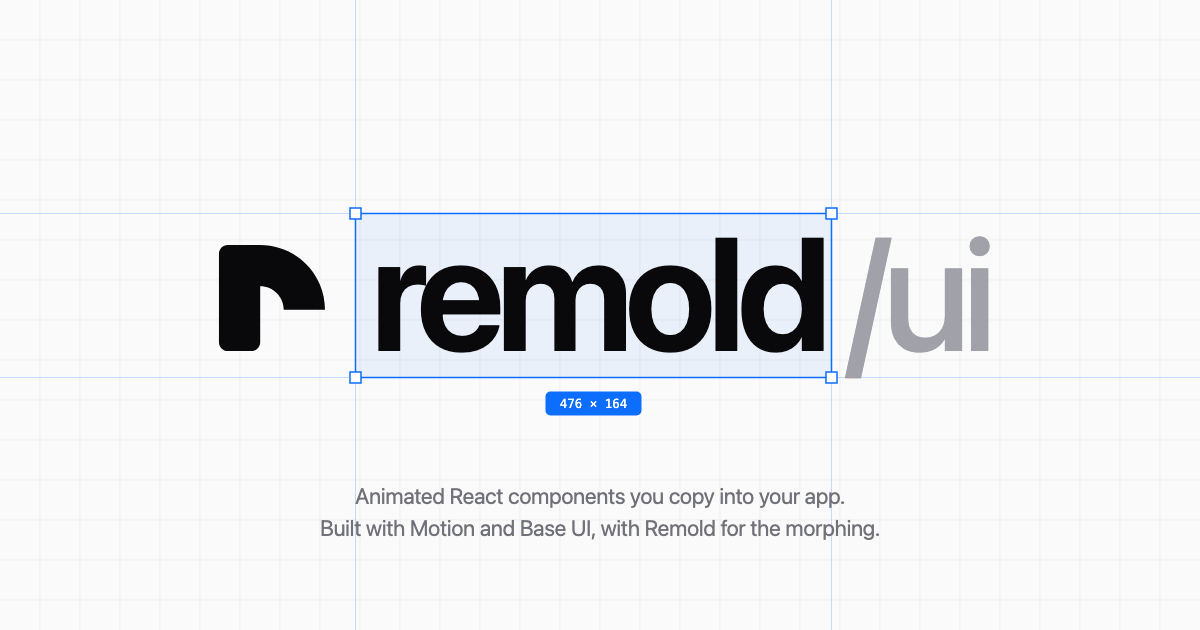
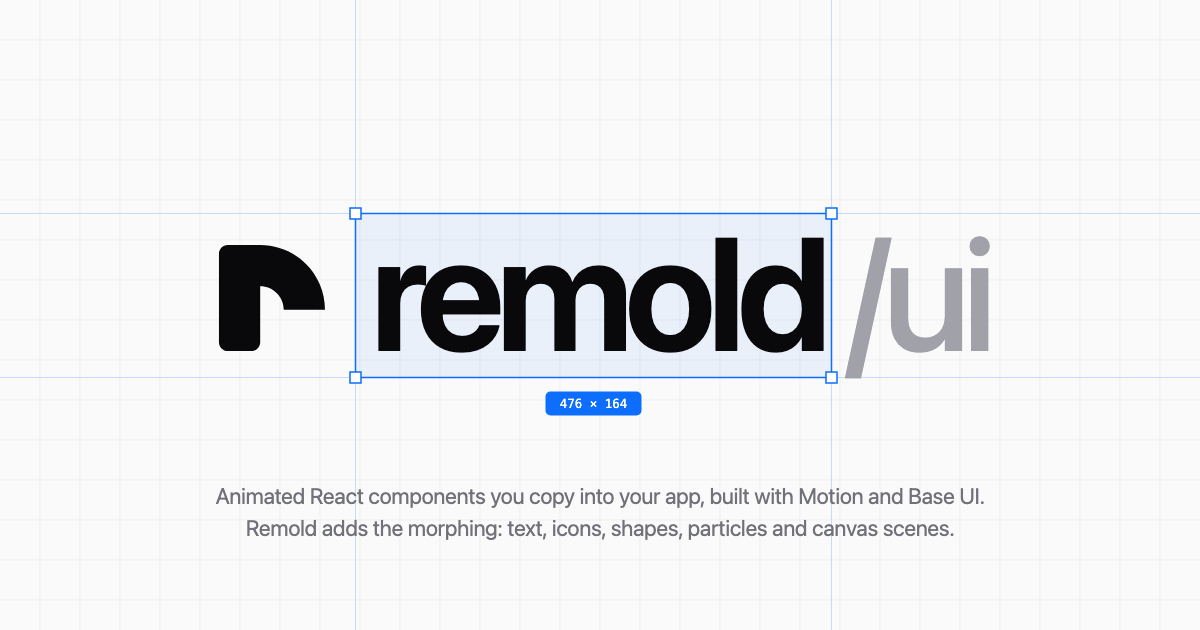
docs: name particles and canvas scenes in the lead line
The banner, link preview, README, home page and docs introduction now list what
Remold morphs in full: text, icons, shapes, particles and canvas scenes.

Changed region(s): [[0.185, 0.754, 0.8325, 0.8746]]

diff --git a/apps/docs/lib/seo.ts b/apps/docs/lib/seo.ts
@@ -1,11 +1,11 @@
 export const siteUrl = (process.env.NEXT_PUBLIC_SITE_URL ?? "https://remoldui.xyz").replace(/\/$/, "");
 
 export const siteDescription =
-  "Open-source animated React components built with Motion and Base UI, with Remold for the morphing: text, SVG icons, shapes and particles.";
+  "Open-source animated React components built with Motion and Base UI, with Remold for the morphing: text, SVG icons, shapes, particles and canvas scenes.";
 
 export const socialImage = "/og-remold-ui.png";
 
-export const socialImageAlt = "remold/ui: animated React components you copy into your app, built with Motion and Base UI, with Remold for the morphing.";
+export const socialImageAlt = "remold/ui: animated React components you copy into your app, built with Motion and Base UI. Remold adds the morphing: text, icons, shapes, particles and canvas scenes.";
 
 export function absoluteUrl(path = "/") {
   return new URL(path, siteUrl).toString();

diff --git a/apps/docs/app/(home)/page.tsx b/apps/docs/app/(home)/page.tsx
@@ -107,7 +107,7 @@ export default async function HomePage() {
             <div className="hm-hero-side">
               <p className="hm-lead">
                 Animated React components for the screens you actually ship, ready to copy into your app. Built with Motion and
-                Base UI, with Remold for the morphing: text, icons, shapes and particles.
+                Base UI, with Remold for the morphing: text, icons, shapes, particles and canvas scenes.
               </p>
               <div className="hm-actions">
                 <Link className="hm-cta primary" href="/docs/quick-start">

diff --git a/README.md b/README.md
@@ -2,7 +2,7 @@
 
 <picture>
   <source media="(prefers-color-scheme: dark)" srcset=".github/assets/hero-dark.svg">
-  <img alt="remold/ui: animated React components you copy into your app, built with Motion and Base UI, with Remold for the morphing. The word remold sits in a selection box with corner handles, and the logo beside it remolds between a square shoulder and an arc." src=".github/assets/hero-light.svg" width="100%">
+  <img alt="remold/ui: animated React components you copy into your app, built with Motion and Base UI. Remold adds the morphing: text, icons, shapes, particles and canvas scenes. The word remold sits in a selection box with corner handles, and the logo beside it remolds between a square shoulder and an arc." src=".github/assets/hero-light.svg" width="100%">
 </picture>
 
 <br />
@@ -12,7 +12,7 @@
 [![npm](https://img.shields.io/npm/v/@remold-ui/react?color=18181b&label=npm)](https://www.npmjs.com/package/@remold-ui/react)
 [![License: MIT](https://img.shields.io/badge/license-MIT-18181b)](LICENSE)
 
-**Animated React components you copy into your app. Built with Motion and Base UI, with Remold for the morphing: text, icons, shapes and particles.**
+**Animated React components you copy into your app. Built with Motion and Base UI, with Remold for the morphing: text, icons, shapes, particles and canvas scenes.**
 
 [Documentation](https://remoldui.xyz/docs) · [Components](https://remoldui.xyz/docs/components) · [Quick start](https://remoldui.xyz/docs/quick-start)
 
@@ -23,7 +23,7 @@
 ## What it is
 
 - **Components you copy into your app.** Inputs, menus, checkouts, dashboards and more, each animating only the change that matters. They are built on [Base UI](https://base-ui.com) for behaviour and accessibility, and most of their movement is [Motion](https://motion.dev): springs, enter and exit, shared elements. You install them from a shadcn registry and own the code.
-- **Remold, for the morphing.** A small library for the moments one thing turns into another: text that changes letter by letter, icons and SVG shapes that reshape, layouts that rearrange without ids, connector lines that stay attached, and particles that re-form. It works in React, or with plain JavaScript and any UI library.
+- **Remold, for the morphing.** A small library for the moments one thing turns into another: text that changes letter by letter, icons and SVG shapes that reshape, layouts that rearrange without ids, connector lines that stay attached, and on canvas, thousands of particles that re-form and scenes that spring between layouts. It works in React, or with plain JavaScript and any UI library.
 
 Remold is not a replacement for Motion or GSAP. Use those for springs, gestures and enter and exit animations, and reach for Remold where a morph says more than a fade. [`@remold-ui/morph`](packages/morph) only does the geometry, so you can drive it from either.
 
